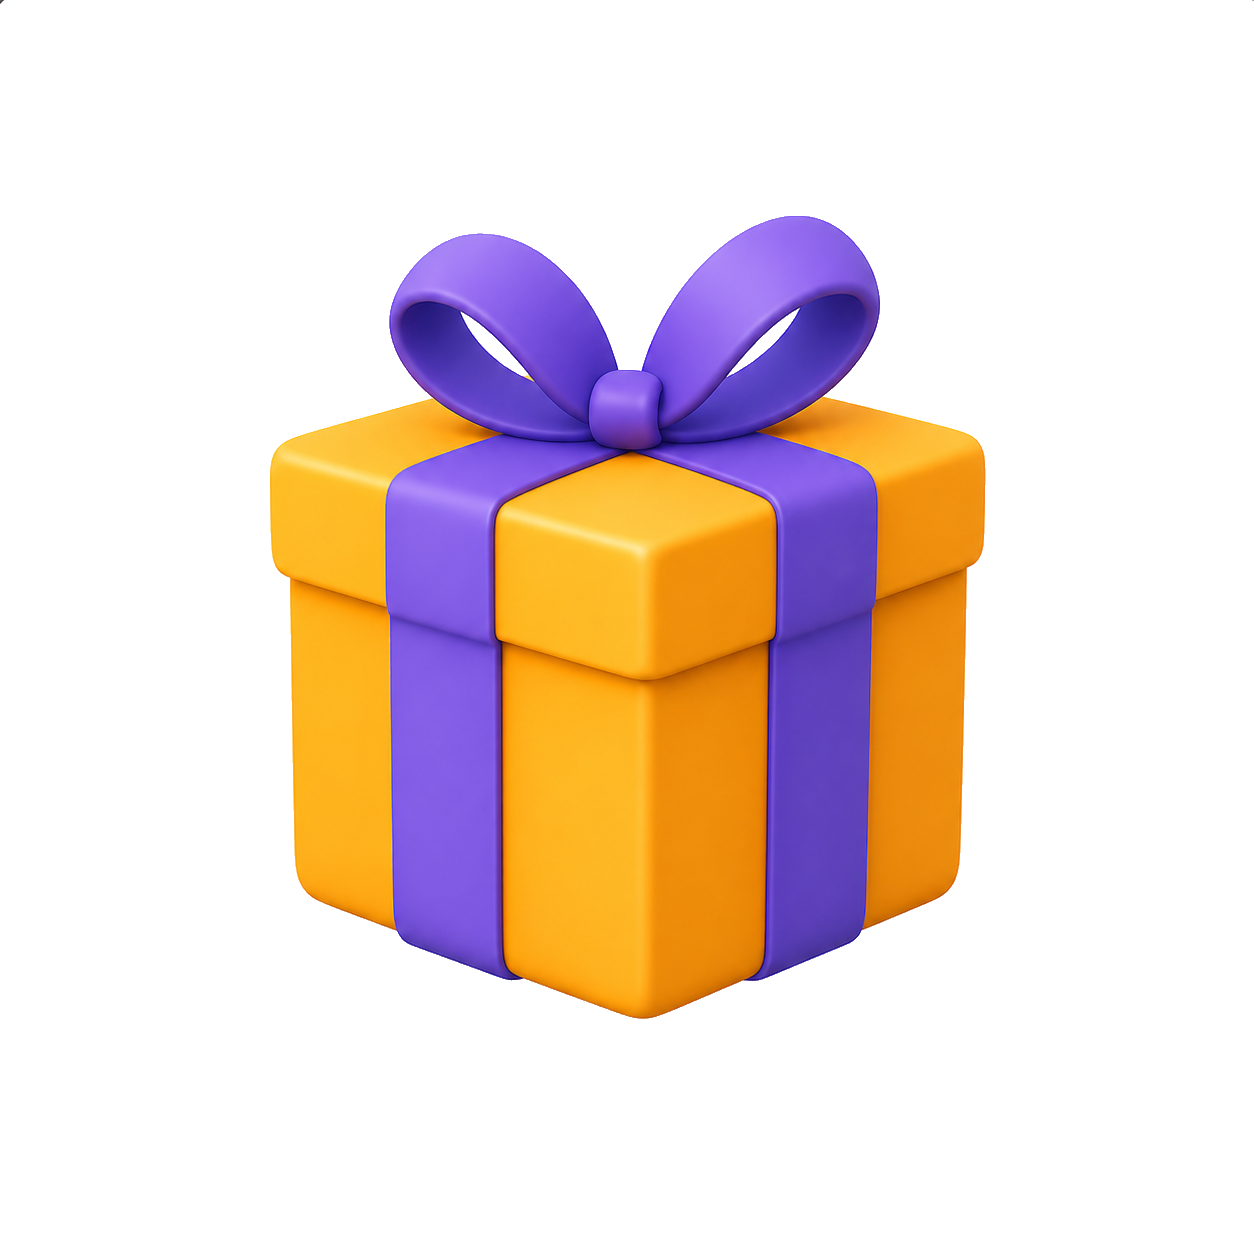
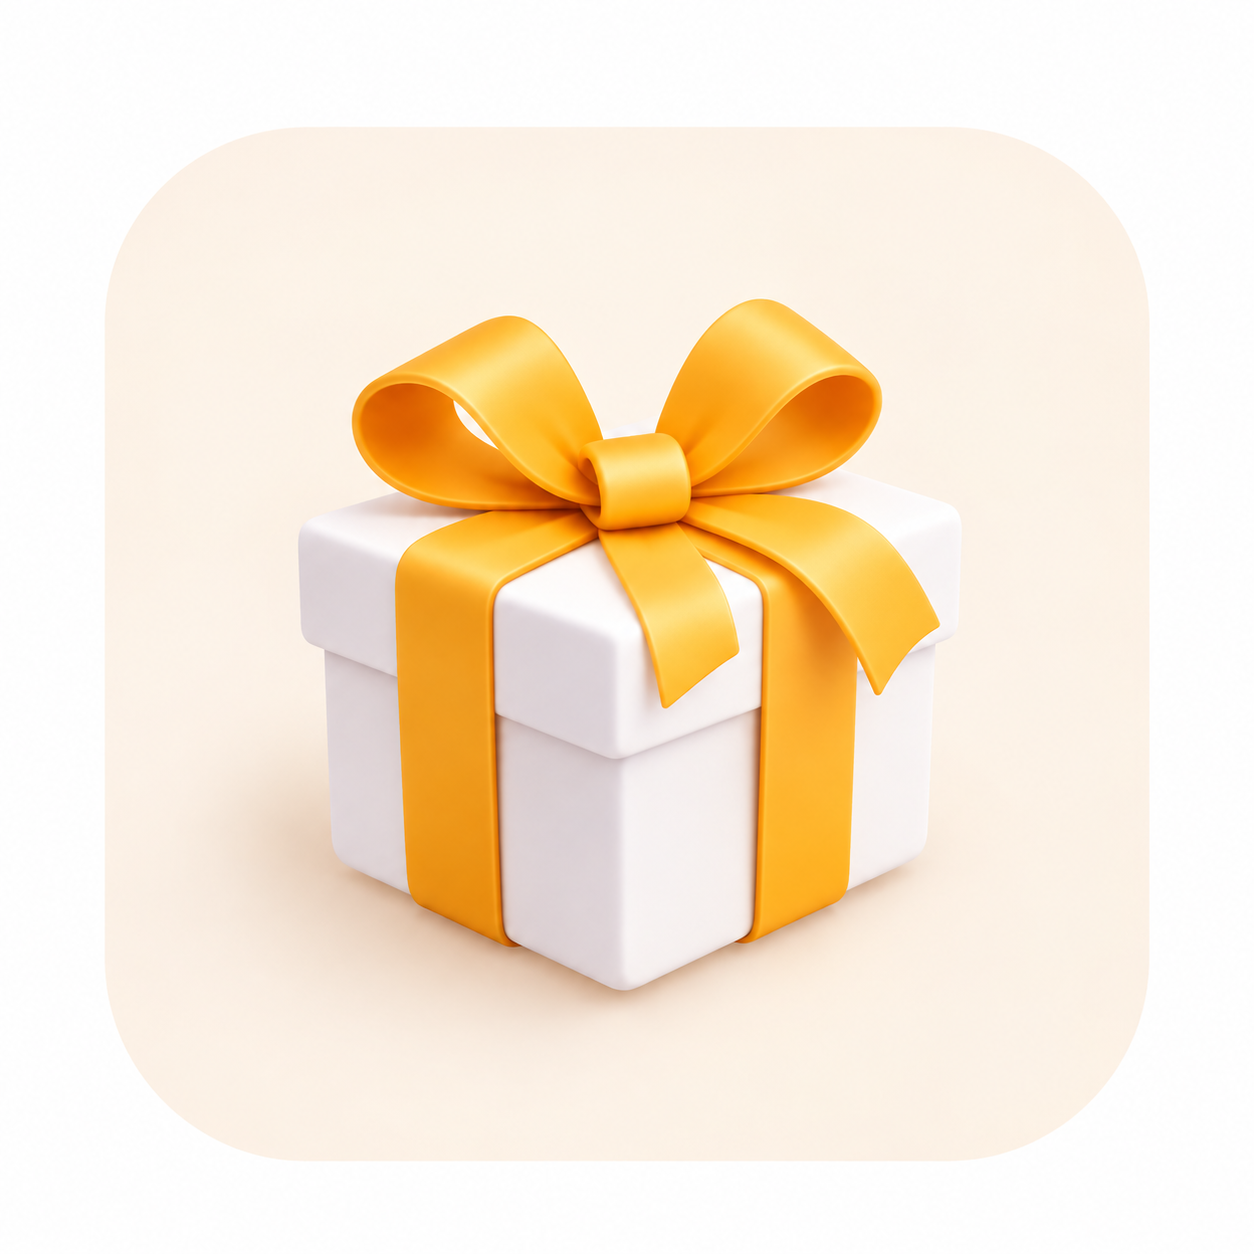
znakomstvo: доводка hero — подарок, бейдж, карточки
- 3D-иллюстрация подарка в плашке клуба (без светлой окантовки)
- Плашка «Давайте познакомимся!» — персиковая с оранжевым текстом
- Заголовки карточек преимуществ в одну строку (декор — от 1440px)
- Колонка карточек выровнена по высоте левой части hero

diff --git a/src/pages/znakomstvo/Page.jsx b/src/pages/znakomstvo/Page.jsx
@@ -141,12 +141,14 @@ export default function Page() {
 
               <div className="zn-hero__gift">
                 <span className="zn-hero__gift-icon" aria-hidden="true">
-                  <svg viewBox="0 0 24 24" fill="none">
-                    <rect x="3" y="8.5" width="18" height="12.5" rx="2" fill="currentColor" opacity="0.16" />
-                    <path d="M3 10.5A1.5 1.5 0 0 1 4.5 9h15A1.5 1.5 0 0 1 21 10.5v1A1.5 1.5 0 0 1 19.5 13h-15A1.5 1.5 0 0 1 3 11.5v-1z" fill="currentColor" />
-                    <rect x="10.4" y="9" width="3.2" height="12" fill="currentColor" />
-                    <path d="M12 9c-1.4-.2-4.2-1-4-3 .2-1.7 3-1 4 3zm0 0c1.4-.2 4.2-1 4-3-.2-1.7-3-1-4 3z" stroke="currentColor" strokeWidth="1.5" strokeLinejoin="round" />
-                  </svg>
+                  <img
+                    src="/znarnia/images/gift-3d.png"
+                    alt=""
+                    width="1254"
+                    height="1254"
+                    loading="lazy"
+                    decoding="async"
+                  />
                 </span>
                 <p className="zn-hero__gift-text">
                   А ещё мы создали <strong>бесплатный Интеллектуальный клуб</strong> — {nb('интерактивные уроки, тренажёры и новые материалы каждую неделю.')}
@@ -159,7 +161,7 @@ export default function Page() {
                 <li key={i} className={`zn-feat zn-feat--${f.theme}`}>
                   <img className="zn-feat__icon" src={f.img} alt="" aria-hidden="true" width="360" height="360" loading="lazy" decoding="async" />
                   <div className="zn-feat__body">
-                    <h3 className="zn-feat__title">{f.title[0]}<br />{f.title[1]}</h3>
+                    <h3 className="zn-feat__title">{f.title[0]} {f.title[1]}</h3>
                     <p className="zn-feat__text">{nb(f.text)}</p>
                   </div>
                   <span className="zn-feat__deco" aria-hidden="true">

diff --git a/src/pages/znakomstvo/page.css b/src/pages/znakomstvo/page.css
@@ -135,8 +135,8 @@
   font-weight: 800;
   font-size: clamp(13px, 1.5vw, 15px);
   letter-spacing: 0.01em;
-  color: var(--so-purple-mid);
-  background: #e5dbfa;
+  color: var(--zn-orange);
+  background: #ffe0cd;
   padding: 9px 20px;
   border-radius: 999px;
   margin-bottom: 18px;
@@ -167,16 +167,20 @@
   padding: 16px 22px;
 }
 .zn-hero__gift-icon {
-  display: grid;
-  place-items: center;
-  width: 46px;
-  height: 46px;
+  display: block;
+  width: 52px;
+  height: 52px;
   border-radius: 12px;
-  background: #e3dbfa;
-  color: var(--so-purple-mid);
+  overflow: hidden;
   flex-shrink: 0;
 }
-.zn-hero__gift-icon svg { width: 26px; height: 26px; }
+.zn-hero__gift-icon img {
+  width: 100%;
+  height: 100%;
+  object-fit: cover;
+  /* лёгкий зум, чтобы обрезать светлую окантовку по краям PNG */
+  transform: scale(1.2);
+}
 .zn-hero__gift-text {
   font-family: 'Nunito', sans-serif;
   font-size: 14.5px;
@@ -316,7 +320,10 @@
     gap: 40px;
     align-items: start;
   }
-  .zn-feats { align-self: start; }
+  /* Растягиваем колонку карточек на высоту левой части:
+     верх — по верху плашки «Давайте познакомимся!»,
+     низ — по низу плашки про Интеллектуальный клуб. */
+  .zn-feats { align-self: stretch; justify-content: space-between; }
 
   .zn-hero__note {
     align-items: center;
@@ -326,7 +333,9 @@
 }
 
 /* показываем декор, когда карточке хватает ширины */
-@media (min-width: 1180px) {
+/* Декор справа показываем только когда колонка достаточно широкая,
+   чтобы заголовок помещался в одну строку рядом с ним. */
+@media (min-width: 1440px) {
   .zn-feat { padding-right: 118px; }
   .zn-feat__deco { display: block; }
 }
